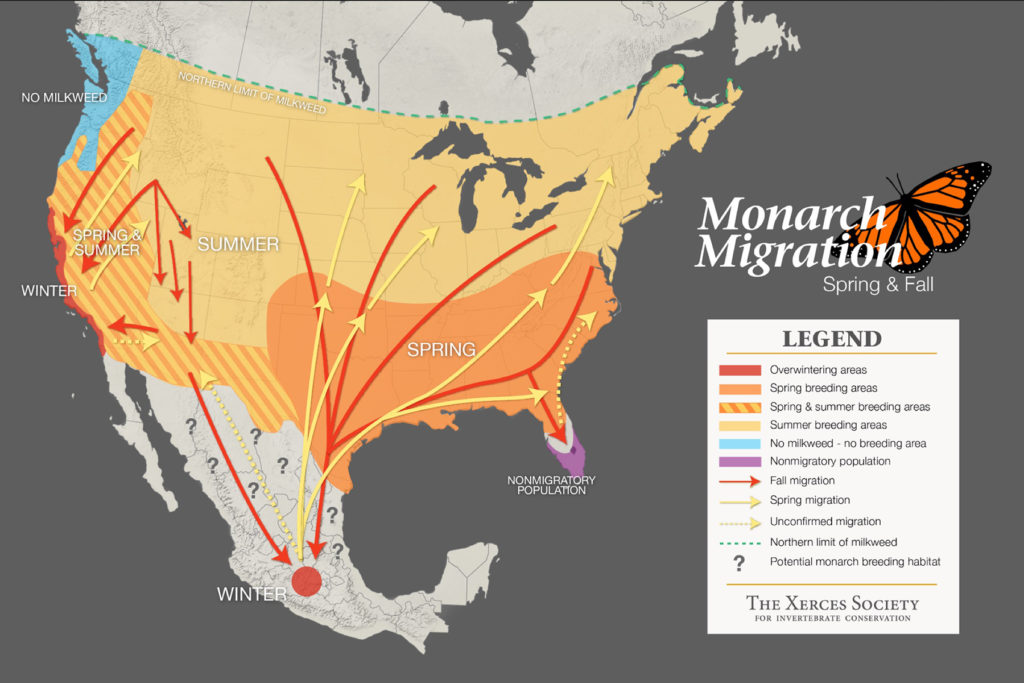
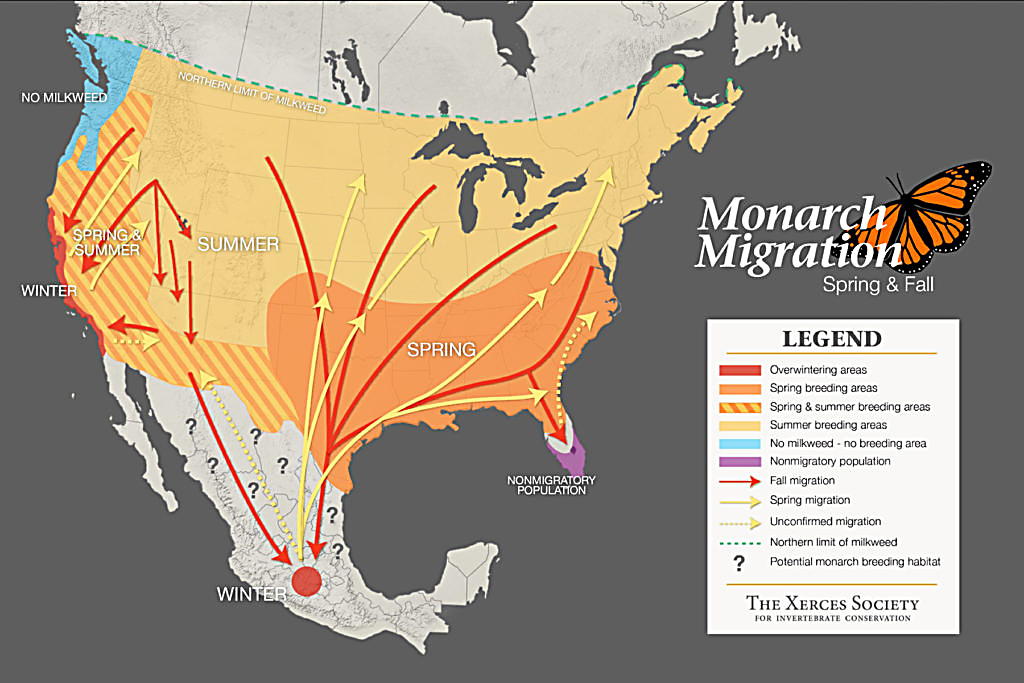
added box shadow property to the arrows and slides, added resources page

diff --git a/CSSFolder/carousel.css b/CSSFolder/carousel.css
@@ -12,8 +12,9 @@ body {
     overflow: hidden;
     margin: 0 auto 2% auto;
     display: block;
-    border: 2px solid magenta;
-    width: 1000px;
+    /* border: 2px solid magenta; */
+    width: 1010px;
+    height: 630px;
   
   }
   
@@ -45,9 +46,9 @@ body {
   
   .carousel-button_next {
     /* The "next slide button" will be at the right */
-    right: -10px;
+    right: 0px;
     /* background-color: #fff; */
-    box-shadow: 0 0 40px 20px #fff;
+    box-shadow: 0 0 10px 5px #fff;
     /* box-shadow: 0 0 5px #ffee10; */
 
     /* box-shadow: 0 0 60px 30px #fff, 0 0 100px 60px #b400ff, 0 0 140px 90px #ff00d4; */
@@ -57,7 +58,7 @@ body {
   
   .carousel-button_previous {
     /* border: 5px solid magenta; */
-    box-shadow: 0 0 40px 20px #fff;
+    box-shadow: 0 0 20px 10px #fff;
     left: -10px;
   }
   .slides {
@@ -65,16 +66,34 @@ body {
     width: 100%;
     transition: transform 0.5s;
     transform: translateX(calc(-100% * var(--current-slide)));
+
   }
   
   .slide {
     flex: 0 0 100%;
+    /* box-shadow: 20px 20px 60px 30px rgb(15, 14, 14); */
+
   }
   
-  @media screen and (min-width: 768px) {
-    .carousel-button {
-      font-size: 2rem;
-      margin: 1rem;
-    }
+  .individualSlides {
+        /* x-offset y-offset blur-radius color */
+        /* filter:drop-shadow(0.25rem 0.25rem 0.5rem #0000); */
+        /* box-shadow: 0 0 60px 30px black; */
+        /* box-shadow: none|h-offset v-offset blur spread color |inset|initial|inherit; */
+        box-shadow: 4px 4px 6px 0px rgba(73, 68, 57, 0.52);
+
   }
+  /* @media screen and (min-width: 768px) { */
+    
+  /* _______________________________  Tablet Styles___________________________________________________________ */
+@media only screen and (min-width: 561px) and (max-width: 1023px) {
+  .carousel-button {
+    font-size: 2rem;
+    margin: 1rem;
+  }
+
+  .carousel {
+    width: 500px;
+  }
+}
   

diff --git a/lifecycle.html b/lifecycle.html
@@ -4,7 +4,7 @@
     <meta charset="UTF-8">
     <meta http-equiv="X-UA-Compatible" content="IE=edge">
     <meta name="viewport" content="width=device-width, initial-scale=1.0">
-    <title>Carousel</title>
+    <title>Monarch Life Cycle</title>
     <link rel="stylesheet" href="https://cdnjs.cloudflare.com/ajax/libs/font-awesome/6.2.1/css/all.min.css" integrity="sha512-MV7K8+y+gLIBoVD59lQIYicR65iaqukzvf/nwasF0nqhPay5w/9lJmVM2hMDcnK1OnMGCdVK+iQrJ7lzPJQd1w==" crossorigin="anonymous" referrerpolicy="no-referrer" />
     <link href="CSSFolder/style.css" rel="stylesheet"> 
     <link href="CSSFolder/carousel.css" rel="stylesheet"> 
@@ -23,7 +23,7 @@
     
     </section>
 
-    <h1>Monarch Life Cycle Stages</h1>
+    <h2><center>Monarch Life Cycle Stages</center></h2>
 
     <div class="carousel" data-carousel>
         <div class="carousel-buttons">
@@ -38,19 +38,19 @@
         </div>
         <div class="slides" data-carousel-slides-container>
             <div class="slide">
-            <img src="images/MonarchStagesIndividualPages.jpg">
+            <img class="individualSlides" src="images/MonarchStagesIndividualPages.jpg">
             </div>
           
             <div class="slide">
-                <img src="images/MonarchStagesIndividualPages2.jpg">
+                <img class="individualSlides" src="images/MonarchStagesIndividualPages2.jpg">
             </div>
 
             <div class="slide">
-                <img src="images/MonarchStagesIndividualPages3.jpg">
+                <img class="individualSlides" src="images/MonarchStagesIndividualPages3.jpg">
             </div>
 
             <div class="slide">
-                <img src="images/MonarchStagesIndividualPages4.jpg">
+                <img class="individualSlides" src="images/MonarchStagesIndividualPages4.jpg">
             </div>
               
 

diff --git a/resources.html b/resources.html
@@ -1,0 +1,32 @@
+<!DOCTYPE html>
+<html lang="en">
+<head>
+    <meta charset="UTF-8">
+    <meta http-equiv="X-UA-Compatible" content="IE=edge">
+    <meta name="viewport" content="width=device-width, initial-scale=1.0">
+    <title>Resources</title>
+    <link rel="icon" type="image/x-icon" href="favicon.ico">
+    <link href="CSSFolder/style.css" rel="stylesheet"> 
+    <link rel="preconnect" href="https://fonts.googleapis.com">
+    <link rel="preconnect" href="https://fonts.gstatic.com" crossorigin>
+</head>
+<body>
+    <section class="topnav">
+        <nav>
+            <a class="active" href="index.html">Home</a>
+            <a href="migration.html">Migration</a>
+            <a href="lifecycle.html">Lifecycle</a>
+            <a href="plants.html">Plants</a>
+            <a href="resources.html">Resources</a>
+            <a href="blog.html">Blog</a>
+        </nav>
+    </section>
+
+    <div class="resources">
+        <section>
+            <h2>Addtional Resources</h2>
+            <p>This page is still under construction.<img src="images/th-949840076.jpeg" style="float:right;"></p>
+        </section>
+    </div>
+</body>
+</html>

diff --git a/migration.html b/migration.html
@@ -24,7 +24,7 @@
 
 
     <div id="topImage">
-        <img src="images/migration_map_warrenssoutherngarden-com.jpeg" style=width:100%;>
+        <img src="images/MonarchMap-NatureServe-10_20-2123773366.png" style=width:100%;>
         <!-- <div id="colorBar"></div> -->
         <section id="migrationText">
             <p><h2>Migration Patterns</h2>Each fall, North American monarchs travel from their summer breeding grounds to overwintering locations. East of the Rocky Mountains, monarchs travel up to an astonishing 3,000 miles to central Mexico, whereas the shorter migration west of the Rockies is to the California coast. There is evidence of some interchange between the eastern and western populations, perhaps when individuals cross the Rocky Mountains, when butterflies fly from the western U.S. to the Mexican wintering sites, or butterflies from the Mexican sites fly into the western U.S.<sup>1</sup></p>

diff --git a/CSSFolder/resources.css b/CSSFolder/resources.css
@@ -1,0 +1,4 @@
+.resources {
+    margin-left: 2%;
+    margin-right: 2%;
+}
